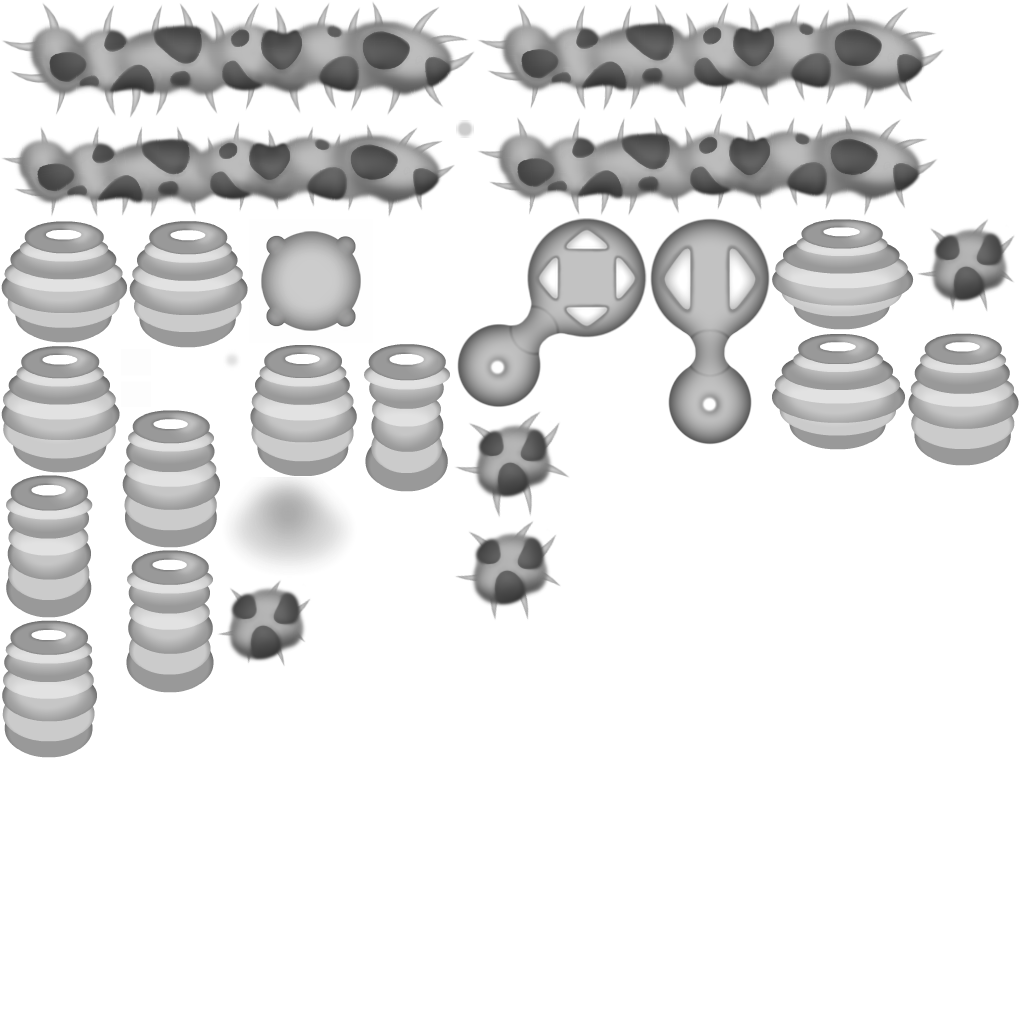
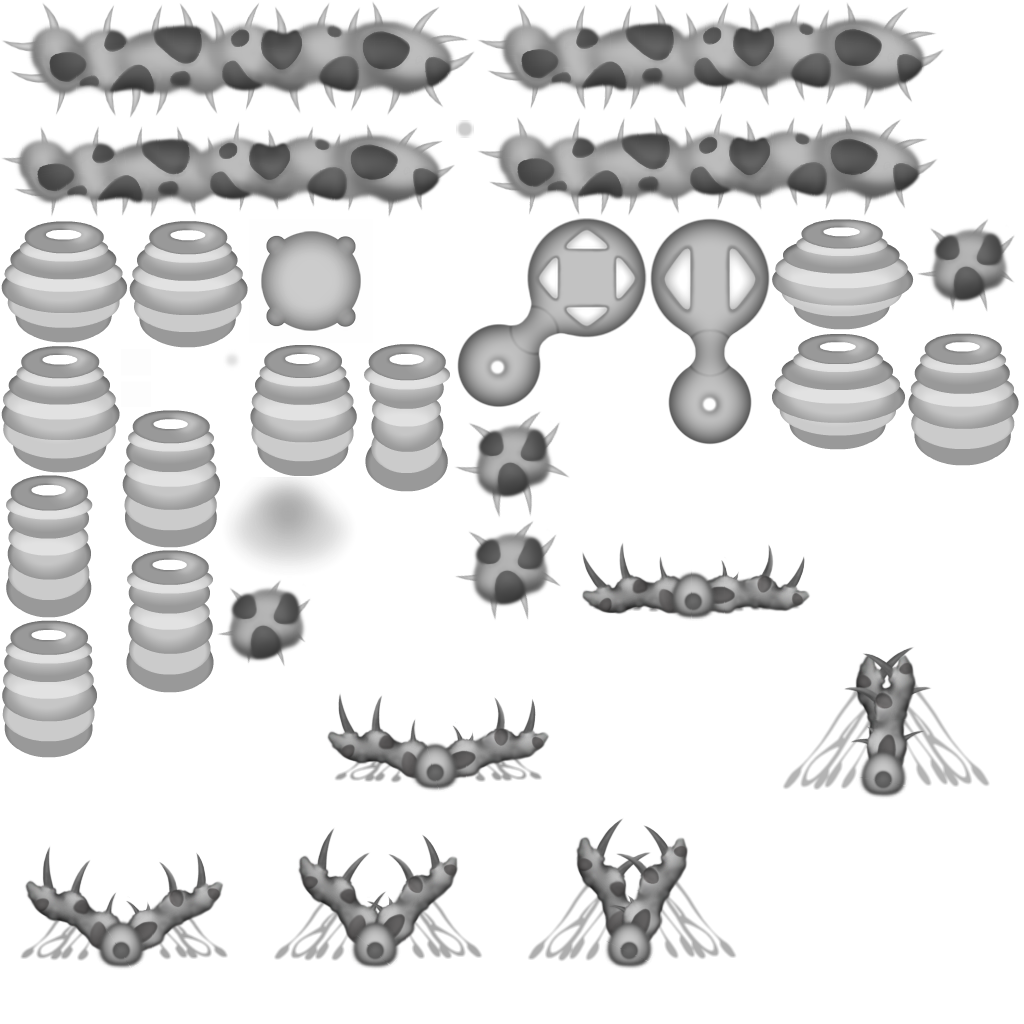
feat: use the ios white spikes flower movie with hd frames

diff --git a/src/ContreJour/ContreJour/Content/ClipCatalog.cs b/src/ContreJour/ContreJour/Content/ClipCatalog.cs
@@ -404,7 +404,7 @@ namespace ContreJour.Content
                 "McSpikesCenterWhite" => new(ClipIds.Chapter4.McSpikesCenterWhite, ClipKind.Sprite),
                 "McSpikesPartWhite" => new(ClipIds.Chapter4.McSpikesPartWhite, ClipKind.MovieClip),
                 "McSpikesPartWhiteRight" => new(ClipIds.Chapter4.McSpikesPartWhiteRight, ClipKind.MovieClip),
-                "McSpikesViewWhite" => new(ClipIds.Chapter4.McSpikesViewWhite, ClipKind.Composite, static () => new Clips.chapter4.McSpikesViewWhite()),
+                "McSpikesViewWhite" => new(ClipIds.Chapter4.McSpikesViewWhite, ClipKind.MovieClip),
                 "McSpringShadowWhite" => new(ClipIds.Chapter4.McSpringShadowWhite, ClipKind.Sprite),
                 "McSpringViewWhite" => new(ClipIds.Chapter4.McSpringViewWhite, ClipKind.MovieClip),
                 "McStrongSnotEndWhite" => new(ClipIds.Chapter4.McStrongSnotEndWhite, ClipKind.Sprite),
